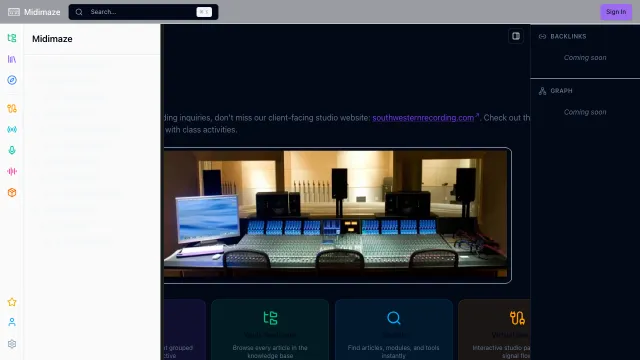
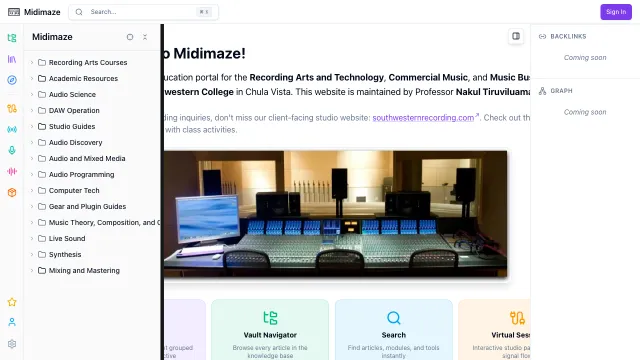
Update Midimaze and Verse & Vow thumbnails, bump cache v3

diff --git a/src/lib/constants.ts b/src/lib/constants.ts
@@ -59,7 +59,7 @@ export const PROJECTS = [
     url: "https://midimaze.com",
     tag: "EdTech Platform",
     gradient: "from-violet-500/20 to-purple-500/20",
-    thumbnail: "/thumbnails/midimaze.webp?v=2",
+    thumbnail: "/thumbnails/midimaze.webp?v=3",
   },
   {
     title: "Southwestern Recording",
@@ -67,7 +67,7 @@ export const PROJECTS = [
     url: "https://southwesternrecording.com",
     tag: "Education",
     gradient: "from-emerald-500/20 to-teal-500/20",
-    thumbnail: "/thumbnails/southwesternrecording.webp?v=2",
+    thumbnail: "/thumbnails/southwesternrecording.webp?v=3",
   },
   {
     title: "Musician's Empowerment Collective",
@@ -75,7 +75,7 @@ export const PROJECTS = [
     url: "https://mecinfo.org",
     tag: "Non-Profit",
     gradient: "from-sky-500/20 to-indigo-500/20",
-    thumbnail: "/thumbnails/mecinfo.webp?v=2",
+    thumbnail: "/thumbnails/mecinfo.webp?v=3",
   },
   {
     title: "MusicMind",
@@ -83,7 +83,7 @@ export const PROJECTS = [
     url: "https://musicmind.biz",
     tag: "Music Business",
     gradient: "from-cyan-500/20 to-blue-500/20",
-    thumbnail: "/thumbnails/musicmind.webp?v=2",
+    thumbnail: "/thumbnails/musicmind.webp?v=3",
   },
   {
     title: "Verse & Vow",
@@ -91,7 +91,7 @@ export const PROJECTS = [
     url: "https://verseandvow.com",
     tag: "Event Agency",
     gradient: "from-rose-500/20 to-pink-500/20",
-    thumbnail: "/thumbnails/verseandvow.webp?v=2",
+    thumbnail: "/thumbnails/verseandvow.webp?v=3",
   },
   {
     title: "Build Forward Tech",
@@ -99,7 +99,7 @@ export const PROJECTS = [
     url: "https://buildforwardtech.com",
     tag: "Tech Consulting",
     gradient: "from-slate-500/20 to-zinc-500/20",
-    thumbnail: "/thumbnails/buildforwardtech.webp?v=2",
+    thumbnail: "/thumbnails/buildforwardtech.webp?v=3",
   },
 ] as const;
 
